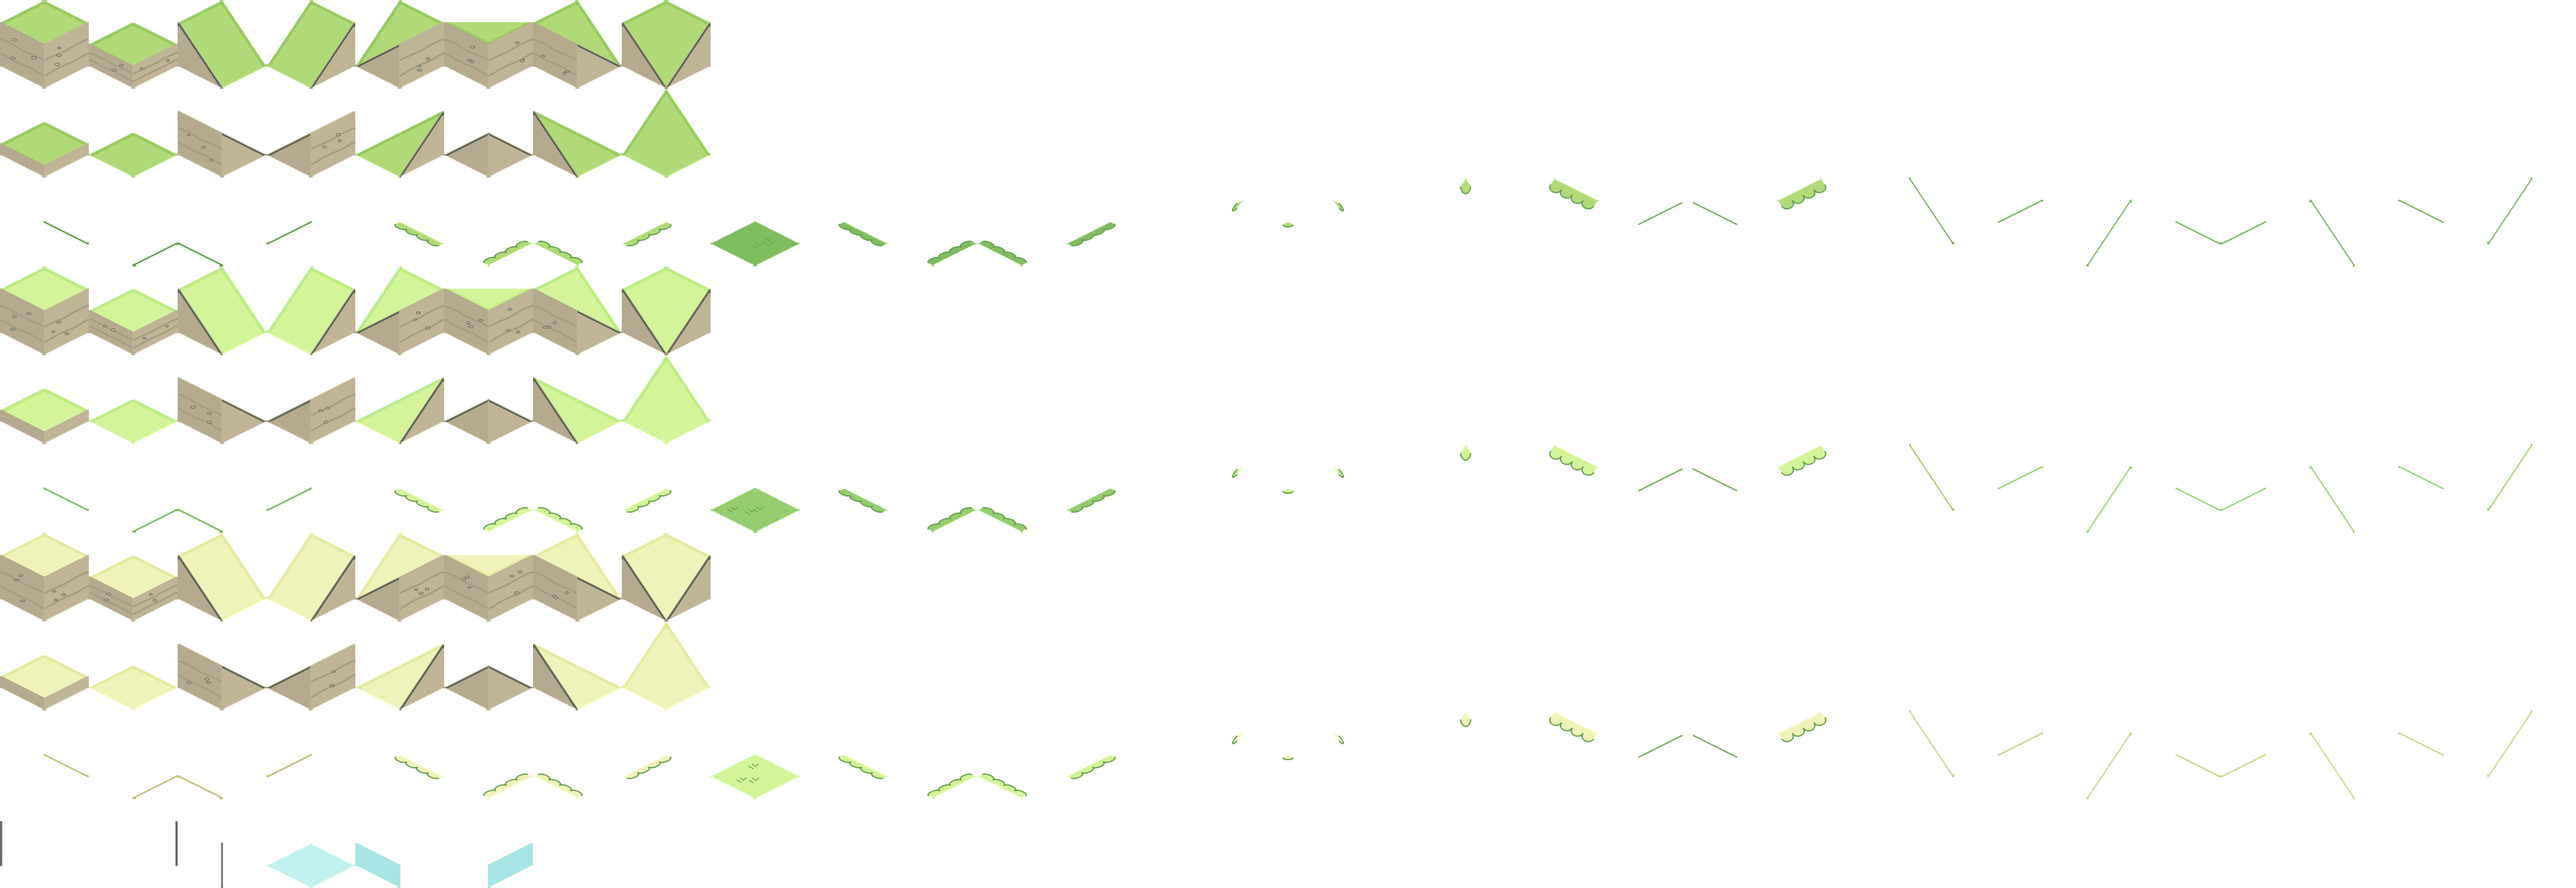
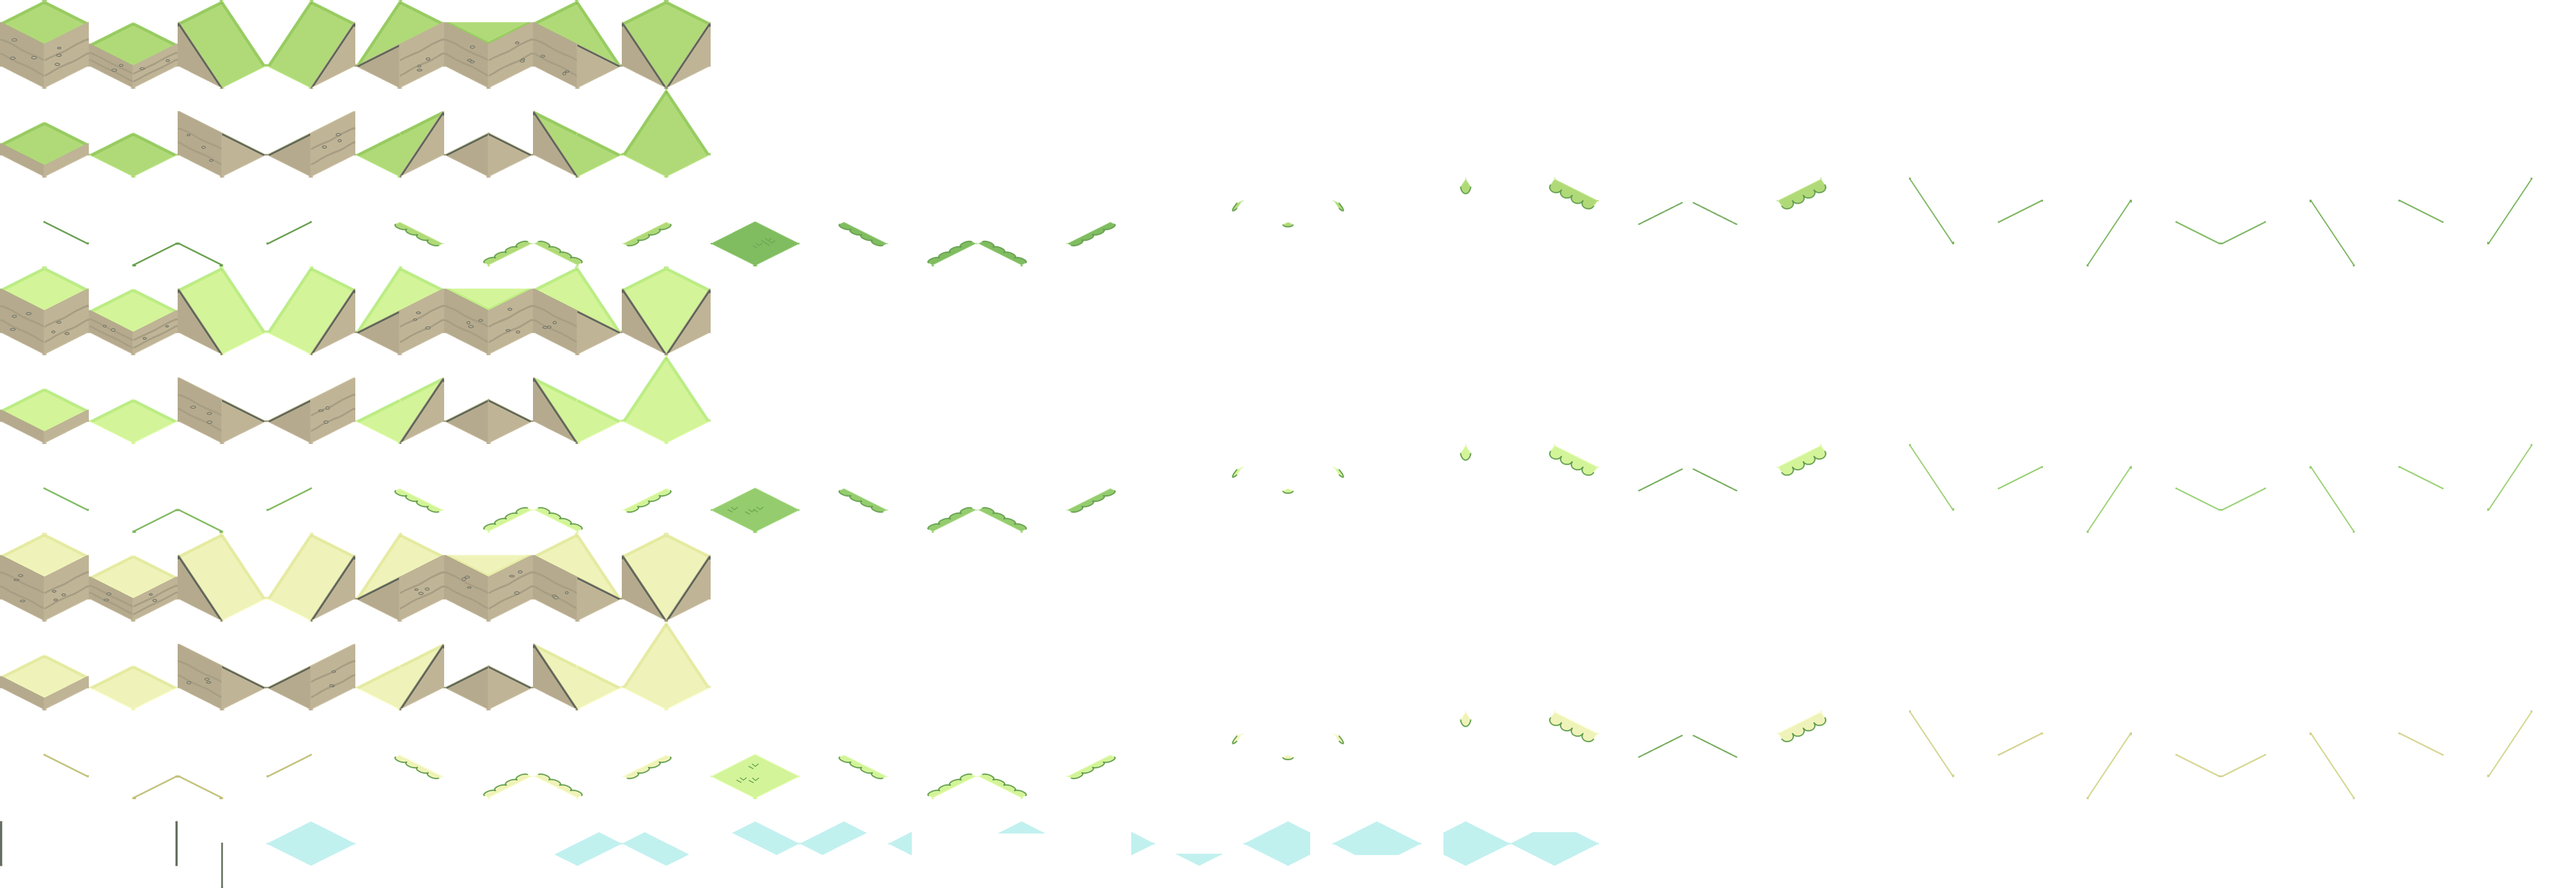
fix(isoworld): l'eau noie la plage et coupe les pentes de sable a mi-hauteur
Une nappe translucide un demi-bloc au-dessus du plan du sable, sur la mer
et la plage. Sur une pente de sable, la nappe est decoupee a la ligne de
flottaison — douze pieces, une par sorte et orientation — pour que le pied
de la pente soit sous l'eau et sa moitie haute au sec. Plus de grille propre
a l'eau : celle du sable transparait.

Claude-Session: https://claude.ai/code/session_0181CUemCq7n3GdF1haz2AgB

Changed region(s): [[0.4352, 0.9318, 0.6217, 0.9939], [0.1865, 0.9318, 0.373, 0.9939], [0.0933, 0.9318, 0.1554, 1.0]]

diff --git a/src/game/isoworld/IsoWorldView.ts b/src/game/isoworld/IsoWorldView.ts
@@ -170,12 +170,12 @@ export class IsoWorldView {
 
   private readonly layer = new Container();
   /**
-   * The sea, over the land: a translucent block on the sand's plane stands
-   * in front of and above the beach, so painter's order among cells cannot
-   * place it — it is drawn last, in its own layer.
+   * The sea, over the land: a translucent sheet half a block above the sand's
+   * plane, beach included, cut at the waterline across the beach's ramps. It
+   * lies over the land it floods, so it is drawn last, in its own layer.
    */
   private readonly waterLayer = new Container();
-  private readonly seaCells: number[] = [];
+  private readonly flooded: number[] = [];
 
   /** Decorations by the index of the LAST cell of their footprint, where they are drawn. */
   private readonly decorAt = new Map<number, { x: number; y: number; prop: Prop }>();
@@ -239,8 +239,8 @@ export class IsoWorldView {
     const tier = tierAt(world, x, y);
 
     if (tier === 0) {
-      if (tileset.water && !tileset.waterFaces) this.place(tileset.water, x, y, 0, false);
-      else if (tileset.water) this.seaCells.push(y * world.width + x);
+      if (tileset.water && !spec.floodedFloor) this.place(tileset.water, x, y, 0, false);
+      else if (tileset.water) this.flooded.push(y * world.width + x);
       // The sea draws the island's foot: its rims, at floor height, along
       // every edge where land stands.
       this.outline(x, y, 0);
@@ -259,7 +259,10 @@ export class IsoWorldView {
       if (!top && east > k && south > k) continue;
       this.place(this.blockMaterial(ground, tier, top).cube, x, y, k * block.z);
     }
-    if (tier <= spec.floor) this.place(this.surfaceMaterial(ground, tier).flat, x, y, surface);
+    if (tier <= spec.floor) {
+      this.place(this.surfaceMaterial(ground, tier).flat, x, y, surface);
+      if (spec.floodedFloor) this.flooded.push(y * world.width + x);
+    }
 
     // The turf is thin, so it is laid its own thickness down: its top lands
     // exactly on the surface and its sides cover the top of the dirt block.
@@ -308,21 +311,28 @@ export class IsoWorldView {
   }
 
   /**
-   * The sea as a translucent block on the floor's plane, in its own layer:
-   * the top on every sea cell, and a south or east face where the block
-   * borders land, so the beach shows through the water's edge.
+   * The water sheet over the floor, in its own layer: the flat tile on sea
+   * and flat sand, and on a sand ramp the sheet cut at the waterline, so the
+   * ramp's foot lies under the water and its upper half stands clear.
    */
   private buildSea(): void {
     const { world, tileset } = this.options;
     const { block, spec } = tileset;
-    if (!tileset.water || !tileset.waterFaces) return;
+    if (!tileset.water || !tileset.waterOver) return;
     const base = spec.floor * block.z;
-    for (const i of this.seaCells) {
+    for (const i of this.flooded) {
       const x = i % world.width;
       const y = (i / world.width) | 0;
-      if (tierAt(world, x, y + 1) > 0) this.place(tileset.waterFaces.south, x, y, base, false, this.waterLayer);
-      if (tierAt(world, x + 1, y) > 0) this.place(tileset.waterFaces.east, x, y, base, false, this.waterLayer);
-      this.place(tileset.water, x, y, base + spec.waterHeight * block.z, false, this.waterLayer);
+      const ramp = rampAt(world, x, y);
+      const piece =
+        ramp === undefined
+          ? tileset.water
+          : ramp.kind === 'inner'
+            ? tileset.waterOver.inner[ramp.dir]
+            : ramp.kind === 'outer'
+              ? tileset.waterOver.outer[ramp.dir]
+              : tileset.waterOver.slope[ramp.dir];
+      this.place(piece, x, y, base, false, this.waterLayer);
     }
   }
 

diff --git a/src/game/isoworld/sheet.ts b/src/game/isoworld/sheet.ts
@@ -83,11 +83,11 @@ interface SheetSpec {
   /** Whether the sheet has water: the pixel sheet's flattened sea, or a drawn tile at [row, col]. */
   water: boolean | readonly [number, number];
   /**
-   * How tall the water block is, in blocks, standing on the floor: 0 on the
-   * pixel sheet (its sea is a surface on the sea bed), half a block on the
-   * smooth one, where the sea is a translucent block on the sand's plane.
+   * Whether the water is a sheet over the whole floor, beach included, cut
+   * at the waterline across the floor's ramps (the smooth sheet), rather
+   * than a surface on sea cells only (the pixel sheet).
    */
-  waterHeight: number;
+  floodedFloor: boolean;
   /** Whether the sheet has the outline pieces: rims on row 2, corners on row 9. */
   outlines: boolean;
   /** Whether columns 4 and 5 exist: stairs, and the block props. */
@@ -124,7 +124,7 @@ export const SHEETS: Readonly<Record<IsoStyle, SheetSpec>> = {
     boulder: 'stone',
     post: [8, 1],
     water: true,
-    waterHeight: 0,
+    floodedFloor: false,
     outlines: false,
     stairs: true,
     blocks: true,
@@ -137,7 +137,7 @@ export const SHEETS: Readonly<Record<IsoStyle, SheetSpec>> = {
     // The query is a layout revision, bumped whenever the sheet's cells move:
     // browsers cache the file by URL, and a stale sheet sliced with the new
     // offsets shows pieces that no longer exist.
-    url: '/assets/world/iso-smooth-sheet-128.png?layout=14',
+    url: '/assets/world/iso-smooth-sheet-128.png?layout=16',
     cell: 128,
     pad: 2,
     materials: ['moss', 'grass', 'sand'],
@@ -147,7 +147,7 @@ export const SHEETS: Readonly<Record<IsoStyle, SheetSpec>> = {
     boulder: 'sand',
     post: null,
     water: [9, 3],
-    waterHeight: 0.5,
+    floodedFloor: true,
     outlines: true,
     stairs: false,
     blocks: false,
@@ -242,8 +242,11 @@ export interface IsoTileset {
   materials: Readonly<Record<Material, MaterialTiles>>;
   /** The water surface, top face only and opaque — see `seaTile`. Null when the sheet has no sea. */
   water: Texture | null;
-  /** The water block's south and east faces, where it borders land. Smooth sheet only. */
-  waterFaces: { south: Texture; east: Texture } | null;
+  /**
+   * The water sheet cut at the waterline over each kind of floor ramp, by
+   * the ramp's `dir`. Smooth sheet only: its water lies over the beach too.
+   */
+  waterOver: { slope: Readonly<Record<Dir, Texture>>; inner: Readonly<Record<Dir, Texture>>; outer: Readonly<Record<Dir, Texture>> } | null;
   /** The colour of that surface, for painting the sea beyond the grid. */
   seaColor: number;
   /** A short wooden post, standing in the middle of its cell. Not on every sheet. */
@@ -337,7 +340,14 @@ async function load(style: IsoStyle): Promise<IsoTileset> {
     turfZ: cell / 8,
     materials,
     water: sea?.texture ?? waterTile,
-    waterFaces: waterTile ? { south: slice(9, 4), east: slice(9, 5) } : null,
+    waterOver: waterTile
+      ? {
+          // Sheet order W N S E -> Dir N 0, E 1, S 2, W 3.
+          slope: { 0: slice(9, 7), 1: slice(9, 9), 2: slice(9, 8), 3: slice(9, 6) },
+          inner: { 0: slice(9, 10), 1: slice(9, 11), 2: slice(9, 12), 3: slice(9, 13) },
+          outer: { 0: slice(9, 14), 1: slice(9, 15), 2: slice(9, 16), 3: slice(9, 17) },
+        }
+      : null,
     seaColor: sea?.color ?? (typeof spec.background === 'number' ? spec.background : spec.background[0][1]),
     post: spec.post ? slice(spec.post[0], spec.post[1]) : null,
     corners: spec.outlines

diff --git a/tools/gen_iso_smooth_sheet.py b/tools/gen_iso_smooth_sheet.py
@@ -37,11 +37,11 @@ inner corner, whose surface is flat where the fringe hangs. The SLOPE FRINGE
 that side, so it clings to the hillside instead of floating over it; the
 lace cap is likewise laid on the outer corner's slope.
 
-WATER is a translucent block half a block tall standing on the sand's plane:
-its top (with its own light grid) and its south and east faces, drawn from
-the base edge up. The renderer lays the top on every sea cell and a face
-wherever the block borders land, in a layer over the land, since the block
-stands in front of and above the beach.
+WATER is a translucent sheet half a block above the sand's plane, over the
+sea and the beach alike: the flat tile (with its own light grid) covers a
+sea or flat sand cell, and the WATER OVER pieces cover a sand ramp — the
+same sheet cut at the waterline, so the ramp's upper half stands out of the
+water while its foot lies under it. Drawn in a layer over the land.
 
 A LACE CAP is the fringe wrapped around one corner of the cell, for the
 outer-corner ramp, which the plateau above touches only at that point. A
@@ -66,7 +66,9 @@ island has no wall between two land tiers.
 
 and a tenth row of pieces shared by every material:
 
-    r9    corner L corner R corner F   water     water S    water E
+    r9    corner L corner R corner F   water
+    r9    col 6-9   water over slope W N S E     col 10-13 water over inner NE SE SW NW
+    r9    col 14-17 water over outer NE SE SW NW
 
 The pixel sheet's last two columns (stairs, prop blocks) are not drawn: this
 sheet is terrain only, and the renderer builds a flight of stairs as a slope
@@ -150,8 +152,6 @@ STRIPE_INK = (168, 158, 132)
 PEBBLE = (118, 120, 108)
 
 WATER_FILL = (150, 232, 228, 150)
-WATER_FACE = (120, 214, 214, 165)
-WATER_GRID = (222, 250, 247, 210)
 WATER_HEIGHT = 0.5
 
 # Fringe geometry, in lattice units of the cell edge.
@@ -570,25 +570,50 @@ def patch(mat, rng) -> Cell:
 
 
 def water() -> Cell:
-    """The sea surface: a translucent flat tile with a light grid on its N and W edges."""
+    """The sea surface: one translucent flat tile half a block up. No grid: the sand's shows through."""
     c = Cell()
-    pts = top_quad(0)
+    pts = top_quad(WATER_HEIGHT)
     ImageDraw.Draw(c.img).polygon(offset_polygon(pts, BLEED * SS), fill=WATER_FILL)
-    for i in (0, 3):
-        a, b = pts[i], pts[(i + 1) % 4]
-        length = math.hypot(b[0] - a[0], b[1] - a[1])
-        k = GRID * SS / 2 / length
-        ImageDraw.Draw(c.img).line(
-            [(a[0] + (b[0] - a[0]) * k, a[1] + (b[1] - a[1]) * k), (b[0] - (b[0] - a[0]) * k, b[1] - (b[1] - a[1]) * k)],
-            fill=WATER_GRID, width=round(GRID * SS))
     return c
 
 
-def water_face(side: str) -> Cell:
-    """One translucent face of the water block, rising from the base edge."""
+def clip_below(tri, level: float):
+    """
+    The part of a lattice triangle `[(u, v, z)] * 3` whose surface lies
+    under `level`, as a polygon of (u, v) points. `z` is linear over the
+    triangle, so the cut is a straight line: Sutherland-Hodgman against it.
+    """
+    out = []
+    n = len(tri)
+    for i in range(n):
+        a, b = tri[i], tri[(i + 1) % n]
+        a_in, b_in = a[2] < level, b[2] < level
+        if a_in:
+            out.append((a[0], a[1]))
+        if a_in != b_in:
+            t = (level - a[2]) / (b[2] - a[2])
+            out.append((a[0] + (b[0] - a[0]) * t, a[1] + (b[1] - a[1]) * t))
+    return out
+
+
+def water_over(heights) -> Cell:
+    """The water sheet over a ramp with these corner heights: only where the ramp is under it."""
+    h00, h10, h11, h01 = heights
+    corners = [(0, 0, h00), (1, 0, h10), (1, 1, h11), (0, 1, h01)]
+    raised = sum(heights)
+    if raised in (0, 4) or (raised == 2 and h00 == h11):
+        tris = [[corners[0], corners[1], corners[2]], [corners[0], corners[2], corners[3]]]
+    else:
+        odd = heights.index(1) if raised == 1 else heights.index(0)
+        a, b = corners[(odd + 1) % 4], corners[(odd + 3) % 4]
+        tris = [[a, corners[(odd + 2) % 4], b], [corners[odd], a, b]]
     c = Cell()
-    face = south_face(0, WATER_HEIGHT) if side == 'S' else east_face(0, WATER_HEIGHT)
-    ImageDraw.Draw(c.img).polygon(offset_polygon(face, BLEED * SS), fill=WATER_FACE)
+    d = ImageDraw.Draw(c.img)
+    for tri in tris:
+        poly = clip_below(tri, WATER_HEIGHT)
+        if len(poly) >= 3:
+            pts = [P(u, v, WATER_HEIGHT) for u, v in poly]
+            d.polygon(offset_polygon(pts, BLEED * SS) if len(pts) > 2 else pts, fill=WATER_FILL)
     return c
 
 
@@ -657,8 +682,18 @@ def build() -> Image.Image:
     for col, which in enumerate('LRF'):
         put(9, col, corner(which))
     put(9, 3, water())
-    put(9, 4, water_face('S'))
-    put(9, 5, water_face('E'))
+    for col, direction in enumerate('WNSE'):
+        heights = [0, 0, 0, 0]
+        for i in SIDE_CORNERS[direction]:
+            heights[i] = 1
+        put(9, 6 + col, water_over(heights))
+    for d in range(4):
+        heights = [1, 1, 1, 1]
+        heights[CORNER_INDEX[(d + 2) % 4]] = 0
+        put(9, 10 + d, water_over(heights))
+        heights = [0, 0, 0, 0]
+        heights[CORNER_INDEX[d]] = 1
+        put(9, 14 + d, water_over(heights))
     return sheet
 
 
